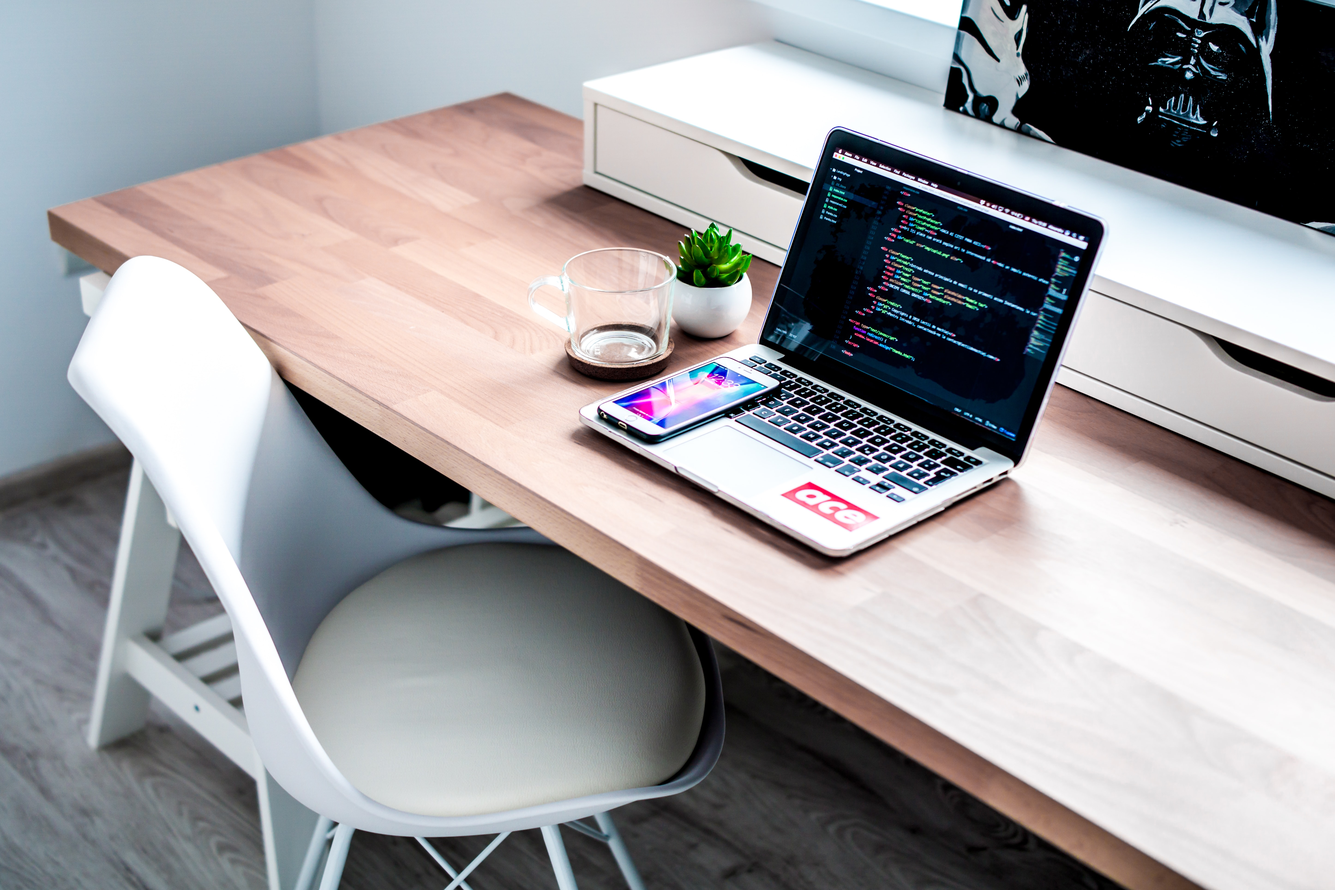
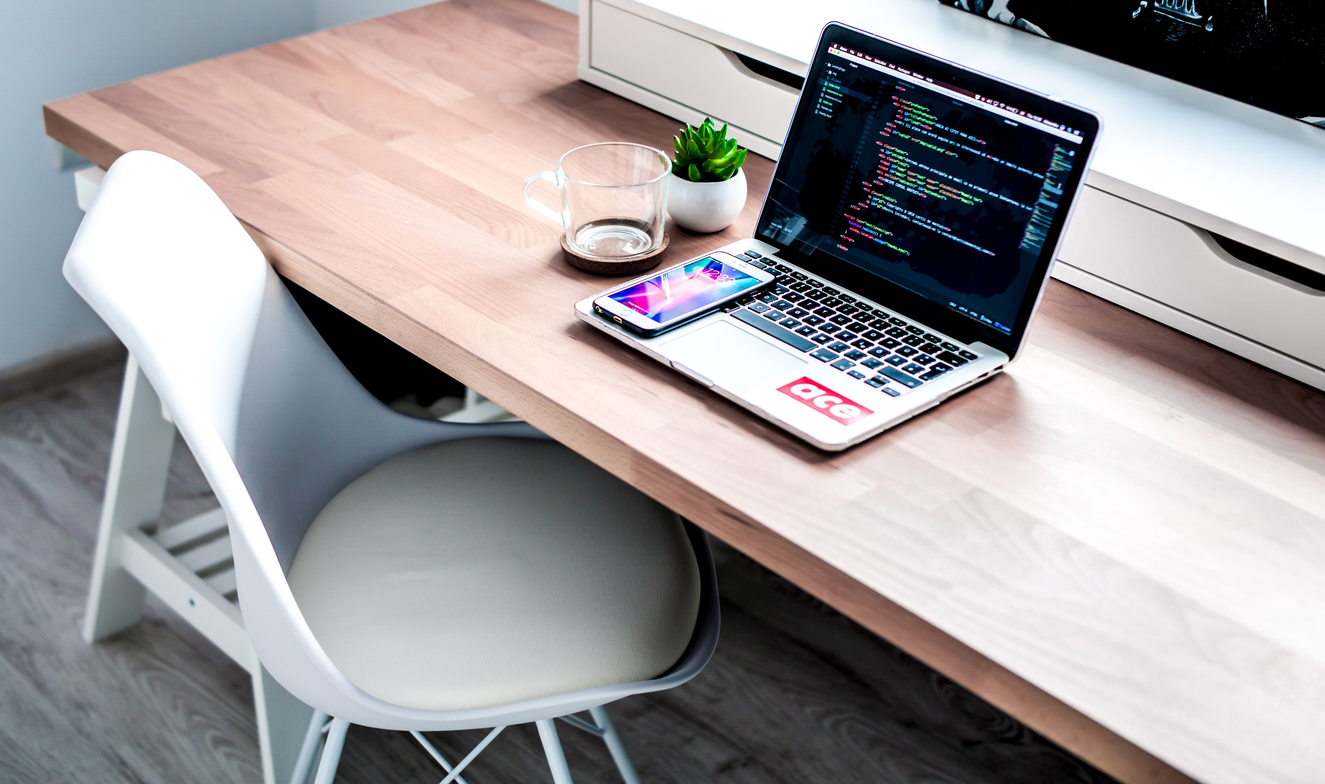
added to web_apps

diff --git a/web_mgmt.html b/web_mgmt.html
@@ -18,6 +18,8 @@
           integrity="sha384-JcKb8q3iqJ61gNV9KGb8thSsNjpSL0n8PARn9HuZOnIxN0hoP+VmmDGMN5t9UJ0Z" crossorigin="anonymous">
     <link rel="stylesheet" href="css/main.css">
 
+    <script src="https://kit.fontawesome.com/6fe8b0aef0.js" crossorigin="anonymous"></script>
+
 </head>
 
 <body>
@@ -30,15 +32,16 @@
 
     <div class="collapse navbar-collapse" id="navbarsExampleDefault">
         <ul class="navbar-nav mr-auto">
-            <li class="nav-item active">
-                <a class="nav-link" href="index.html">Home <span class="sr-only">(current)</span></a>
+            <li class="nav-item">
+                <a class="nav-link" href="index.html">Home </a>
             </li>
             <li class="nav-item">
                 <a class="nav-link" href="about.html">About</a>
             </li>
             <li class="nav-item dropdown">
-                <a class="nav-link dropdown-toggle" href="#" id="dropdown01" data-toggle="dropdown" aria-haspopup="true"
-                   aria-expanded="false">Services</a>
+                <a class="nav-link dropdown-toggle active" href="#" id="dropdown01" data-toggle="dropdown"
+                   aria-haspopup="true"
+                   aria-expanded="false">Services <span class="sr-only">(current)</span></a>
                 <div class="dropdown-menu" aria-labelledby="dropdown01">
                     <a class="dropdown-item" href="web_apps.html">Custom Web Applications</a>
                     <a class="dropdown-item" href="web_mgmt.html">Website Management</a>
@@ -55,9 +58,9 @@
 <main role="main">
 
     <!-- Main jumbotron for a primary marketing message or call to action -->
-    <section class="jumbotron jumbotron-web-apps">
+    <section class="jumbotron jumbotron-web-mgmt">
         <div class="container">
-            <h1 class="display-3">Website Management</h1>
+            <h1 class="display-3 orange">Website Management</h1>
             <p class="description">Mallard Web Solutions can help you get your website up and running smoothly with low
                 hassle on your end. We take all the stress out of owning a website</p>
         </div>
@@ -65,63 +68,79 @@
 
     <!-- What is? -->
     <section class="container">
-        <h2>What is Full-Stack Web Development</h2>
-        <p class="quote">Full stack development involves all three layers of web development - Presentation layer
-            (front end, meaning how the user interacts with the software), Business Logic Layer (back end part that
-            deals with data validation) and the Database Layer (how the data is stored). It takes care of all the
-            steps from the conception of an idea to the actual finished product.</p>
+        <h2>Why Subscribe to Professional Website Management Services?</h2>
+        <p class="quote">Every business owner knows how the importance of having a website in this day and age, but
+            so many are intimidated by the technology and work that goes into owning and managing a website. Whether you
+            are putting up your first website or you want someone to manage your pre-existing website, Mallard Web
+            Solutions offers a variety of packages to choose from to suite your business's needs.</p>
+    </section>
+    <section class="container">
+        <h2>One Time Services</h2>
         <div class="row">
             <div class="col-md-4 ">
-                <img src="images/design.jpg" class="circle-img" alt="front-end design"/>
-                <h3 class="orange">Presentation Layer</h3>
-                <p>The Presentation Layer, or front-end, is the interface you use to interact with your web application.
-                    It accounts for the page layout, buttons, colours and overall design. This is the face of a web
-                    application. </p>
+                <img src="images/mouse.jpg" class="circle-img grayscale" alt="front-end design"/>
+                <h3 class="orange">Website Set Up</h3>
+                <p>Want to get a website up but just not sure where to start? Mallard Web Solutions can walk you through
+                    processes such as Domain Registration, Encryption, and DNS Entry. </p>
             </div>
             <article class="col-md-4">
-                <img src="images/chess.jpg" class="circle-img" alt="back-end design"/>
-                <h3 class="orange">Business Logic Layer</h3>
-                <p>The Business Logic Layer, or back-end, makes up the bulk of a project. It receives and processes data
-                    before sending it to the database to store it. This is the brains and guts of a web application.</p>
+                <img src="images/cloud.jpg" class="circle-img grayscale" alt="back-end design"/>
+                <h3 class="orange">Cloud Configuration</h3>
+                <p>The cloud has enormous benefits but can be intimidating to set up. Mallard Web Solutions can act as
+                    your guide navigating all the options and their implications as you move to the cloud.</p>
+
             </article>
             <article class="col-md-4 ">
-                <img src="images/data.jpg" class="circle-img" alt="database design"/>
-                <h3 class="orange">Database Layer</h3>
-                <p>The Database layer defines how your data is stored. A well-designed database makes for a
-                    well-designed web application. This is the foundation of a web application.</p>
+                <img src="images/social%20media.jpg" class="circle-img grayscale" alt="database design"/>
+                <h3 class="orange">Link to Social Media</h3>
+                <p>Mallard Web Solutions can help you grow your web presence by adding links on your website to social
+                    media platforms such as Facebook, Twitter and Instagram.</p>
             </article>
         </div>
     </section>
 
     <hr>
 
-    <!-- How can it work for you? -->
+    <!-- Monthly Services -->
     <section class="container">
-        <h2>What can this do for your business?</h2>
+        <h2>Monthly Services</h2>
         <div class="row">
-            <article class="services">
+            <article class="what-this-can-do">
                 <div class="full-height">
-                    <h3>Centralize Resources <i class="fa fa-clipboard-check blue"></i></h3>
-                    <p>If your business is feeling scattered, it could be time for a change. A custom web application
-                        can smooth out your frustrations by gathering your resources into a centralized dashboard.
+                    <h3>Basic <i class="fa fa-check blue"></i></h3>
+                    <p>Great for low-maintenance websites such as advertising a personal business. Includes:
                     </p>
+                    <ul class="list">
+                        <li>Response to emails within 1 business day</li>
+                        <li>Domain renewals</li>
+                        <li>Certificate renewals</li>
+                        <li>Website Traffic Reports</li>
+                    </ul>
                 </div>
             </article>
-            <article class="services">
+            <article class="what-this-can-do">
                 <div class="full-height">
-                    <h3>Improve Accessibility <i class="fas fa-laptop blue"></i></h3>
-                    <p>Is your business struggling to keep up with the times? Especially now with so many people working
-                        from home, a custom web application could be what your business needs to keep moving forwards.
+                    <h3>Premium <i class="fas fa-star blue"></i></h3>
+                    <p>Great for e-commerce websites that need more care. Includes:
                     </p>
+                    <ul class="list">
+                        <li>Everything in Basic Plan</li>
+                        <li>Backups</li>
+                        <li>Regular Software and Security Updates</li>
+                        <li>Troubleshooting (when problems arise)</li>
+                    </ul>
                 </div>
             </article>
-            <article class="services">
+            <article class="what-this-can-do">
                 <div class="full-height">
-                    <h3>Go Paperless <i class="fas fa-paper-plane blue"></i></h3>
-                    <p>If your business is getting slowed down from too much paperwork, scanning and copying, consider
-                        investing in a custom web application to optimize your business processes and save money on
-                        paper!
+                    <h3>Deluxe <i class="fas fa-crown blue"></i></h3>
+                    <p>The perfect option for custom web applications. Includes:
                     </p>
+                    <ul class="list">
+                        <li>Everything in Premium Plan</li>
+                        <li>Regular code inspections for bugs</li>
+                        <li>Disaster Recovery and Restoration</li>
+                    </ul>
                 </div>
             </article>
 

diff --git a/web_apps.html b/web_apps.html
@@ -58,7 +58,7 @@
     <!-- Main jumbotron for a primary marketing message or call to action -->
     <section class="jumbotron jumbotron-web-apps">
         <div class="container">
-            <h1 class="display-3">Custom Web Applications</h1>
+            <h1 class="display-3 w-50">Custom Web Applications</h1>
             <p class="description">Mallard Web Solutions specializes in developing custom full-stack web application
                 development for internal business processes. We uniquely tailor each project to the client's specific
                 business needs.</p>
@@ -74,20 +74,20 @@
             steps from the conception of an idea to the actual finished product.</p>
         <div class="row">
             <div class="col-md-4 ">
-                <img src="images/design.jpg" class="circle-img" alt="front-end design"/>
+                <img src="images/design.jpg" class="circle-img grayscale" alt="front-end design"/>
                 <h3 class="orange">Presentation Layer</h3>
                 <p>The Presentation Layer, or front-end, is the interface you use to interact with your web application.
                     It accounts for the page layout, buttons, colours and overall design. This is the face of a web
                     application. </p>
             </div>
             <article class="col-md-4">
-                <img src="images/chess.jpg" class="circle-img" alt="back-end design"/>
+                <img src="images/chess.jpg" class="circle-img grayscale" alt="back-end design"/>
                 <h3 class="orange">Business Logic Layer</h3>
                 <p>The Business Logic Layer, or back-end, makes up the bulk of a project. It receives and processes data
                     before sending it to the database to store it. This is the brains and guts of a web application.</p>
             </article>
             <article class="col-md-4 ">
-                <img src="images/data.jpg" class="circle-img" alt="database design"/>
+                <img src="images/data.jpg" class="circle-img grayscale" alt="database design"/>
                 <h3 class="orange">Database Layer</h3>
                 <p>The Database layer defines how your data is stored. A well-designed database makes for a
                     well-designed web application. This is the foundation of a web application.</p>
@@ -101,7 +101,7 @@
     <section class="container">
         <h2>What can this do for your business?</h2>
         <div class="row">
-            <article class="services">
+            <article class="what-this-can-do">
                 <div class="full-height">
                     <h3>Centralize Resources <i class="fa fa-clipboard-check blue"></i></h3>
                     <p>If your business is feeling scattered, it could be time for a change. A custom web application
@@ -109,7 +109,7 @@
                     </p>
                 </div>
             </article>
-            <article class="services">
+            <article class="what-this-can-do">
                 <div class="full-height">
                     <h3>Improve Accessibility <i class="fas fa-laptop blue"></i></h3>
                     <p>Is your business struggling to keep up with the times? Especially now with so many people working
@@ -117,7 +117,7 @@
                     </p>
                 </div>
             </article>
-            <article class="services">
+            <article class="what-this-can-do">
                 <div class="full-height">
                     <h3>Go Paperless <i class="fas fa-paper-plane blue"></i></h3>
                     <p>If your business is getting slowed down from too much paperwork, scanning and copying, consider

diff --git a/index.html b/index.html
@@ -68,17 +68,19 @@
     <section class="container">
         <h2>Services Offered</h2>
         <div class="row">
-            <article class="services">
-                <div class="full-height">
+            <article class="col-md-4">
+                <img class="grayscale" src="images/code.jpg" alt="custom web applications" width="100%" height="210px">
+                <div class="services">
                     <h3>Custom Web Applications</h3>
                     <p>Mallard Web Solutions specializes in developing web applications perfectly tailored to
                         suite your business needs. Streamline your business processes with a custom-made online
                         solution.</p>
-                    <a class="btn btn-blue align-bottom" href="web_apps.html" role="button">View details »</a>
+                    <a class="btn btn-blue" href="web_apps.html" role="button">View details »</a>
                 </div>
             </article>
-            <article class="services">
-                <div class="full-height">
+            <article class="col-md-4">
+                <img class="grayscale" src="images/management.jpg" alt="custom web applications" width="100%" height="210px">
+                <div class="services">
                     <h3>Website Management</h3>
                     <p>From domain registration and renewals to making sure your website stays up and running, Mallard
                         Web Solutions works to offer select services on monthly subscriptions to keep your website alive
@@ -86,8 +88,9 @@
                     <a class="btn btn-blue align-bottom" href="web_mgmt.html" role="button">View details »</a>
                 </div>
             </article>
-            <article class="services">
-                <div class="full-height">
+            <article class="col-md-4">
+                <img class="grayscale" src="images/consulting.jpg" alt="custom web applications" width="100%" height="210px">
+                <div class="services">
                     <h3>Consulting</h3>
                     <p>Need technical advice? Interested in a software product but not sure if it's the right fit?
                         Mallard Web Solutions can guide you towards the best solution for your business

diff --git a/css/main.css b/css/main.css
@@ -84,6 +84,10 @@ section {
     margin: 1em 1em 1em 20%;
 }
 
+.grayscale {
+    filter: grayscale(100%);
+}
+
 .contact {
 
 }
@@ -115,7 +119,8 @@ section {
     background-repeat: no-repeat;
     background-size: 100%;
     background-color: inherit;
-
+    margin-left: 0;
+    margin-right: 0;
 }
 .me {
     margin-left: 30%;
@@ -126,6 +131,15 @@ section {
     background-repeat: no-repeat;
     background-size: 100%;
     background-color: inherit;
+}
+
+.jumbotron-web-mgmt {
+    background-image: url("../images/management.jpg");
+    background-repeat: no-repeat;
+    background-size: 100%;
+    background-color: inherit;
+    background-position-y: -200px;
+    backdrop-filter: blur(100%);
 }
 
 .quote {
@@ -151,6 +165,16 @@ section {
 }
 
 .services {
+    padding: 1em 0;
+}
+
+.services h3 {
+    border-bottom: 1pt solid lightgrey;
+    border-top: 1pt solid lightgrey;
+    padding: 0.25em 0;
+}
+
+.what-this-can-do {
     border-radius: 6px;
     background-color: var(--light-gray);
     margin: 0.5em;
@@ -166,7 +190,7 @@ section {
 @media (max-width: 770px) {
 
     .display-3 {
-        font-size: 1.75em;
+        font-size: 2em;
         font-weight: 400;
     }
 
@@ -175,11 +199,15 @@ section {
         width: 100%;
     }
 
+    .jumbotron-web-mgmt {
+        background-position-y: 0;
+    }
+
     .me {
         margin: 0;
     }
 
-    .services {
+    .what-this-can-do {
         width: 100%;
     }
 
@@ -189,5 +217,7 @@ section {
     .description {
         width: 100%;
     }
+
+
 }
 
